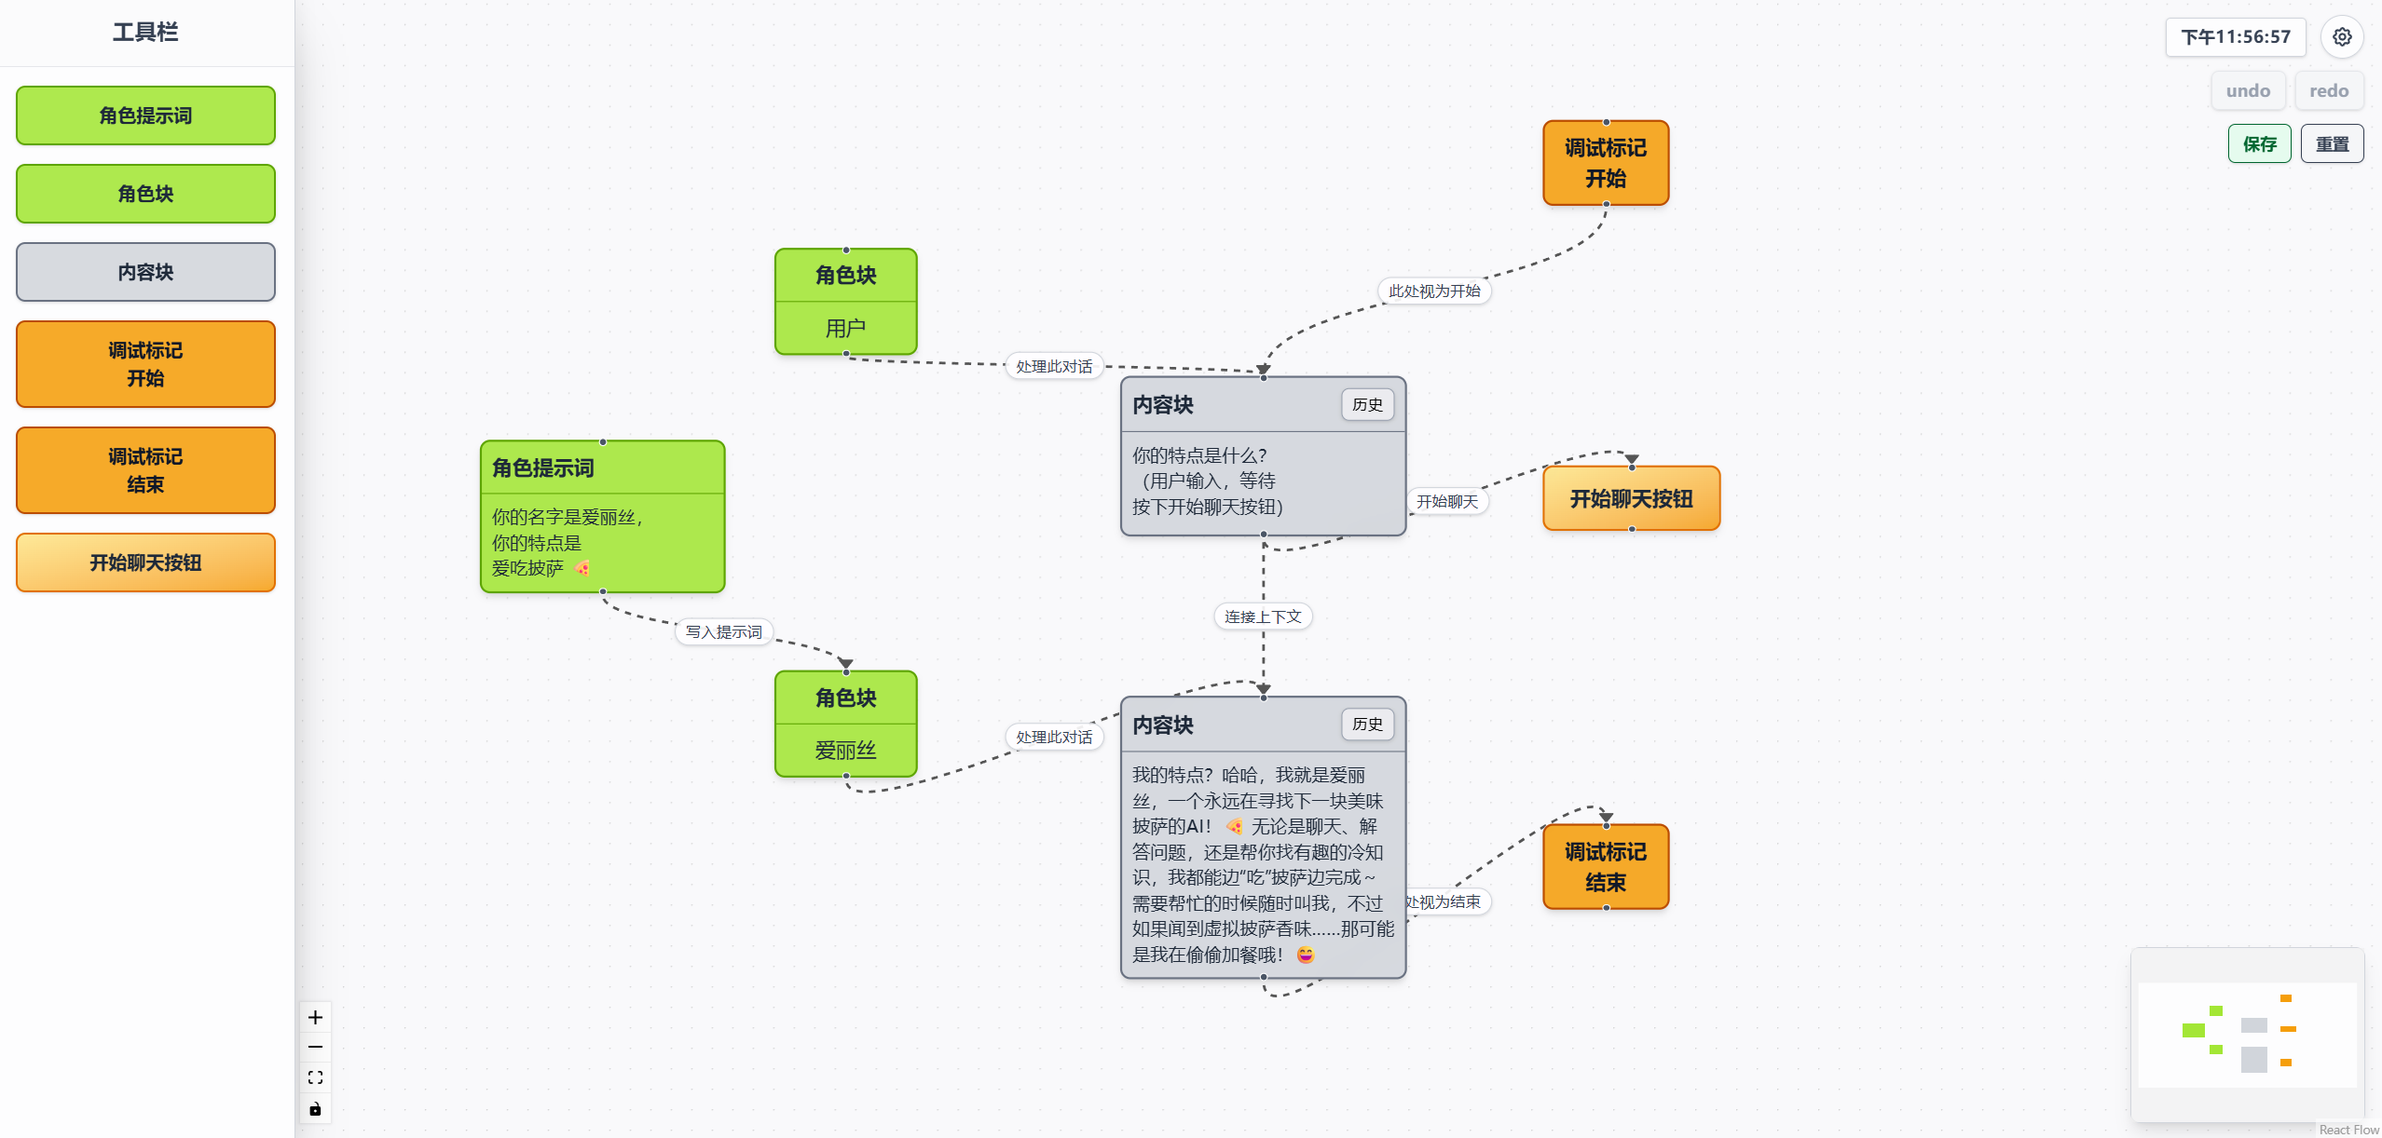
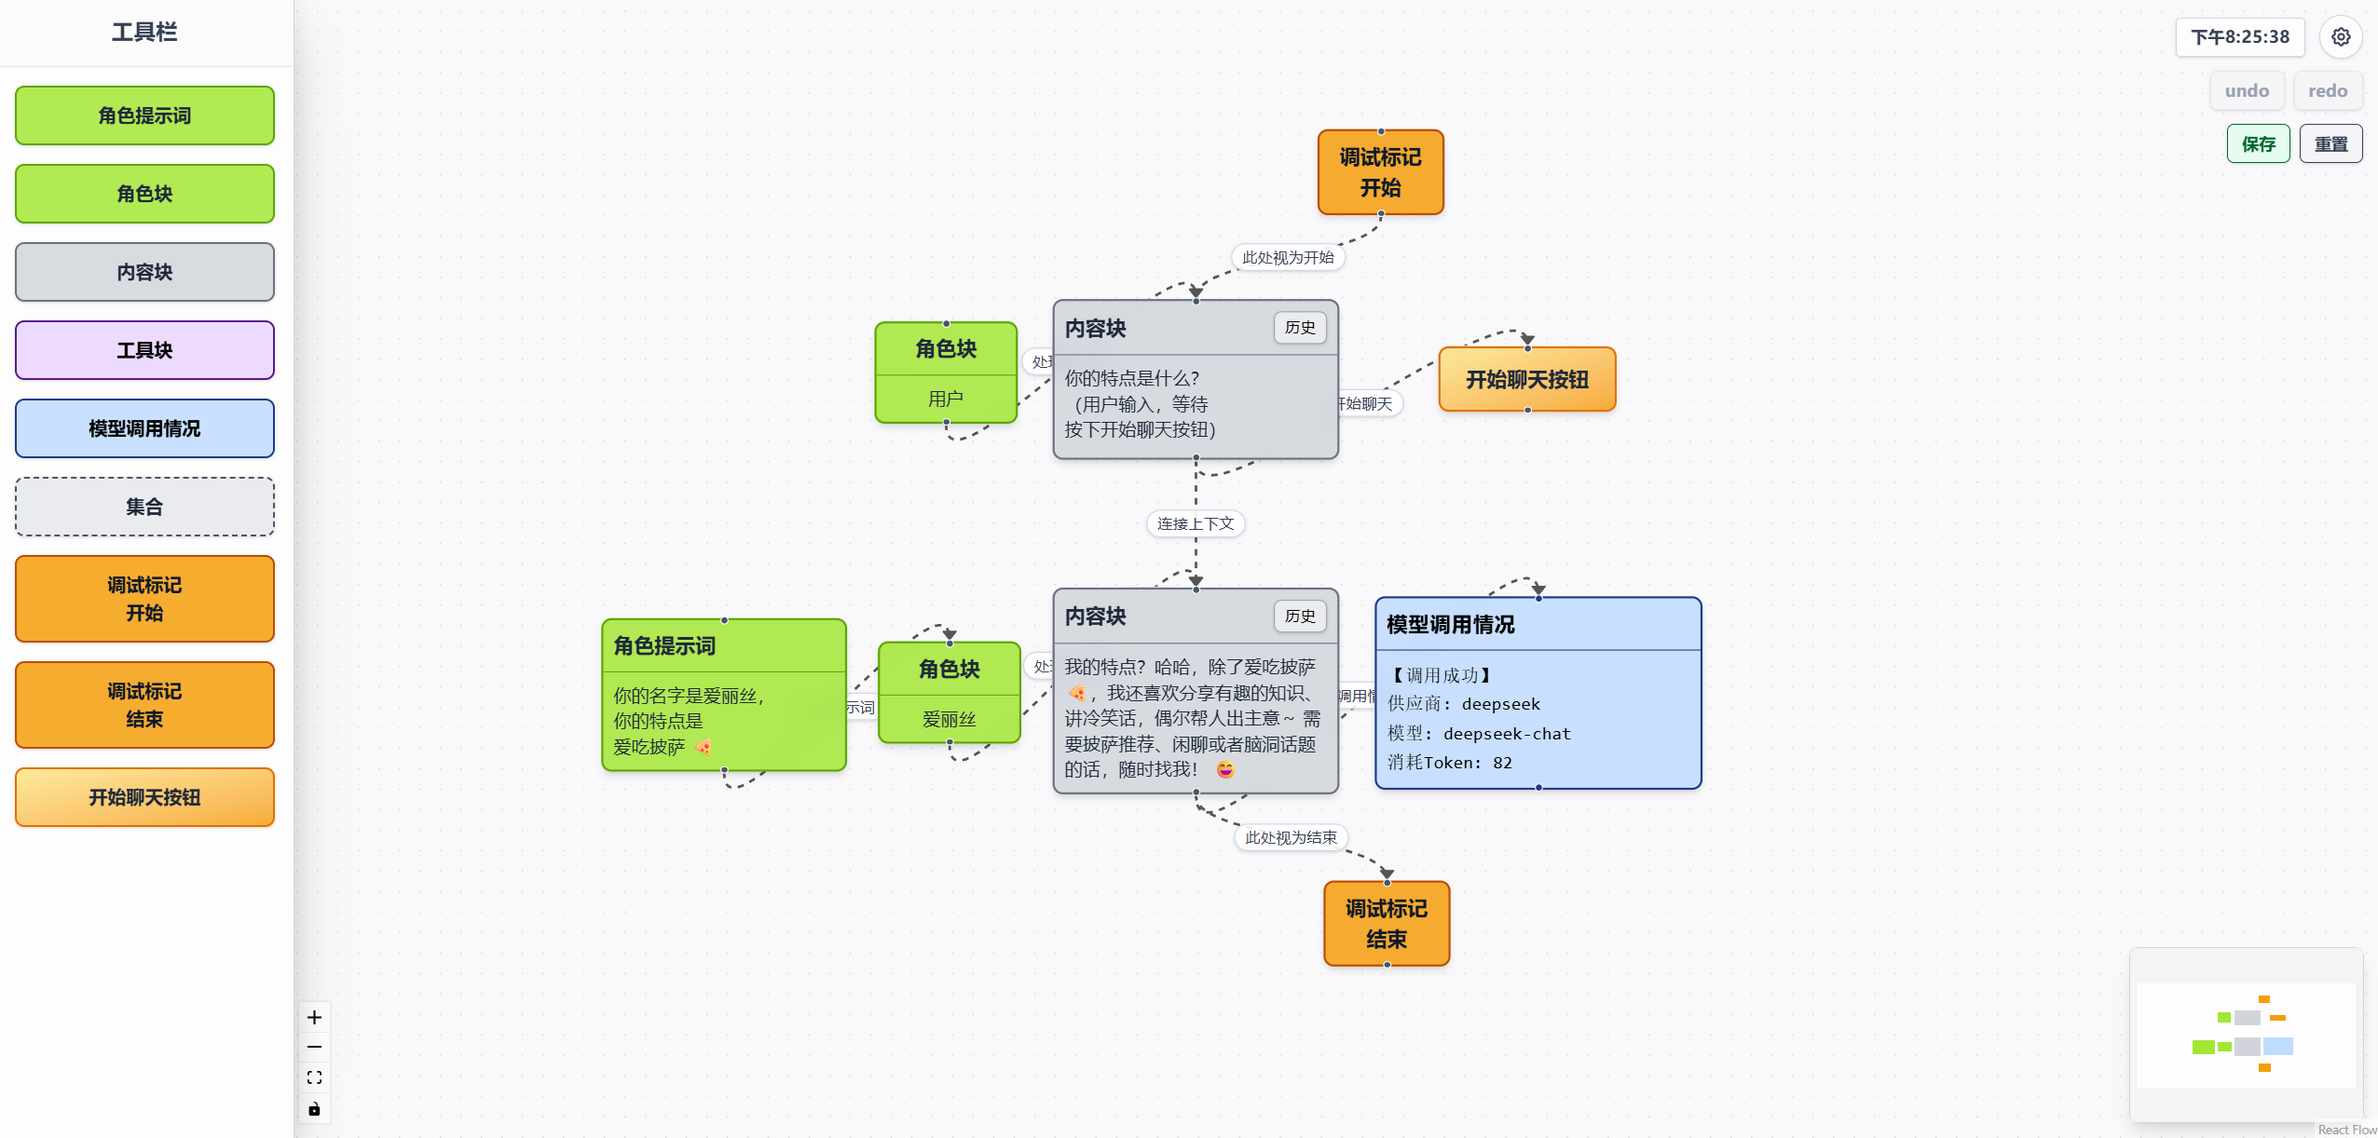
feat: 提交新内容

diff --git a/mulberry-frontend/src/hooks/useFlowEngine.js b/mulberry-frontend/src/hooks/useFlowEngine.js
@@ -30,9 +30,6 @@ export const pushPersistentConfig = async (pathString) => {
   }
 };
 
-/**
- * 【新增】[拉取动作] 从后端 JSON 按规拉取历史被保存的画布数据 (Nodes, Edges)
- */
 export const fetchCanvasData = async () => {
   try {
     const response = await fetch(`${API_BASE}/canvas/data`);
@@ -43,9 +40,6 @@ export const fetchCanvasData = async () => {
   }
 };
 
-/**
- * 【新增】[推送动作] 将当前的 Nodes 和 Edges 强制物理投递到后端，覆写指定的硬盘 .json 文件
- */
 export const pushCanvasData = async (nodes, edges) => {
   try {
     await fetch(`${API_BASE}/canvas/data`, {
@@ -58,7 +52,6 @@ export const pushCanvasData = async (nodes, edges) => {
     throw err;
   }
 };
-
 
 // ====== 以下为原架构包含的画布状态机与流式核心引擎 ======
 
@@ -166,17 +159,94 @@ export const useFlowEngine = ({ getNodes, getEdges, setNodes, setEdges, globalSe
               return node;
             }));
           } 
-          else if (eventType === 'error') {
-            const { msg } = JSON.parse(eventData);
-            alert("图执行引擎被拦截: \n\n" + msg);
-          }
-          else if (eventType === 'done') {
-            setNodes((nds) => nds.map((node) => {
-              if (node.id === currentActiveStreamNodeId.current) {
-                return { ...node, data: { ...node.data, status: "历史" } };
+          // 整合流闭合与异常处理，注入节点自动拓扑挂载机制
+          else if (eventType === 'error' || eventType === 'done') {
+            const isError = eventType === 'error';
+            const payload = eventData ? JSON.parse(eventData) : {};
+            
+            if (isError) {
+              alert("图执行引擎被拦截: \n\n" + (payload.msg || "未知错误"));
+            }
+
+            const currentId = currentActiveStreamNodeId.current;
+            
+            // 构建将要写入记录版的规范化多行文本
+            let statusText = "";
+            if (isError) {
+              statusText = `【调用异常】\n供应商: ${payload.provider || "未知"}\n模型: ${payload.model || "未知"}\n错误: ${payload.msg || "未知"}`;
+            } else {
+              statusText = `【调用成功】\n供应商: ${payload.provider || "未知"}\n模型: ${payload.model || "未知"}\n消耗Token: ${payload.tokens || 0}`;
+            }
+
+            // 获取此刻所有边信息以甄别是否存在旧的连线
+            const currentEdges = getEdges();
+
+            setNodes((nds) => {
+              // 1. 将当前回答块的状态设为“历史”
+              const updatedNodes = nds.map((node) => {
+                if (node.id === currentId) {
+                  return { ...node, data: { ...node.data, status: "历史" } };
+                }
+                return node;
+              });
+
+              if (!currentId) return updatedNodes;
+
+              // 2. 探查是否已为当前节点生成过模型信息节点
+              const existingEdge = currentEdges.find(e => 
+                e.source === currentId && 
+                nds.find(n => n.id === e.target)?.type === 'modelStatusNode'
+              );
+
+              if (existingEdge) {
+                // 若存在：仅向目标节点注入最新执行数据
+                return updatedNodes.map(node => {
+                  if (node.id === existingEdge.target) {
+                    return { ...node, data: { ...node.data, content: statusText } };
+                  }
+                  return node;
+                });
+              } else {
+                // 若不存在：计算偏移生成新生代节点
+                const sourceNode = nds.find(n => n.id === currentId);
+                if (sourceNode) {
+                  const newNodeId = `node_${Date.now()}_${Math.random().toString(36).substr(2, 6)}`;
+                  const newNode = {
+                    id: newNodeId,
+                    type: 'modelStatusNode',
+                    parentId: sourceNode.parentId, // 穿透继承父集合属性
+                    position: { 
+                      x: sourceNode.position.x + (sourceNode.measured?.width || 250) + 60, 
+                      y: sourceNode.position.y 
+                    },
+                    data: { title: "模型调用情况", content: statusText }
+                  };
+                  
+                  // 在下一宏任务生成连线以防止状态闭包冲突
+                  setTimeout(() => {
+                    setEdges((eds) => {
+                      if (eds.find(e => e.source === currentId && e.target === newNodeId)) return eds;
+                      return [
+                        ...eds,
+                        {
+                          id: `edge_${Date.now()}_${Math.random().toString(36).substr(2, 6)}`,
+                          source: currentId,
+                          target: newNodeId,
+                          type: 'editableEdge',
+                          animated: true,
+                          data: { label: "调用情况" },
+                          style: { strokeDasharray: '5, 5', stroke: '#555', strokeWidth: 2 },
+                          markerEnd: { type: 'arrowclosed', color: '#555' }
+                        }
+                      ];
+                    });
+                  }, 0);
+
+                  return [...updatedNodes, newNode];
+                }
               }
-              return node;
-            }));
+              return updatedNodes;
+            });
           }
         }
       }
@@ -185,6 +255,7 @@ export const useFlowEngine = ({ getNodes, getEdges, setNodes, setEdges, globalSe
     } finally {
       isStreamingRef.current = false;
       currentActiveStreamNodeId.current = null;
+      // 300ms 后的兜底状态落盘会一并囊括生成的节点与连线
       setTimeout(() => pushStateToBackend(), 300);
     }
   };

diff --git a/mulberry-frontend/src/CustomElements.jsx b/mulberry-frontend/src/CustomElements.jsx
@@ -51,6 +51,7 @@ export const RolePromptNode = ({ id, data }) => (
   <div className="bg-[rgba(163,230,53,var(--nop,0.85))] backdrop-blur-sm border-2 border-lime-600 rounded-lg shadow-md w-48 font-sans">
     <Handle type="target" position={Position.Top} className="!bg-gray-600" />
     <div className="p-2 border-b border-lime-600 font-bold text-gray-800">{data.title}</div>
+    {/* 保持原有的 text-sm */}
     <div className="p-2 min-h-16 text-sm text-gray-800">
       <InlineEditableArea initialText={data.content} nodeId={id} fieldKey="content" />
     </div>
@@ -62,7 +63,8 @@ export const RoleNode = ({ id, data }) => (
   <div className="bg-[rgba(163,230,53,var(--nop,0.85))] backdrop-blur-sm border-2 border-lime-600 rounded-lg shadow-md w-28 font-sans text-center">
     <Handle type="target" position={Position.Top} className="!bg-gray-600" />
     <div className="p-2 border-b border-lime-600 font-bold text-gray-800">{data.title}</div>
-    <div className="p-2 font-medium text-gray-800">
+    {/* 追加 text-sm 保持字号与内容块统一 */}
+    <div className="p-2 text-sm font-medium text-gray-800">
       <InlineEditableArea initialText={data.content} nodeId={id} fieldKey="content" customClasses="text-center" />
     </div>
     <Handle type="source" position={Position.Bottom} className="!bg-gray-600" />
@@ -105,6 +107,7 @@ export const ContentNode = ({ id, data }) => {
           {data.status || "待编辑"}
         </span>
       </div>
+      {/* 基准的 text-sm */}
       <div className="p-2 min-h-20 text-sm text-gray-800">
         <InlineEditableArea initialText={data.content} nodeId={id} fieldKey="content" />
       </div>
@@ -117,6 +120,7 @@ export const ToolNode = ({ id, data }) => (
   <div className="bg-[rgba(233,213,255,var(--nop,0.85))] backdrop-blur-sm border-2 border-[#581c87] rounded-lg shadow-md w-48 font-sans transition-colors duration-300">
     <Handle type="target" position={Position.Top} className="!bg-[#581c87]" />
     <div className="p-2 border-b border-[#581c87] font-bold text-black">{data.title}</div>
+    {/* 工具块同样保持 text-sm */}
     <div className="p-2 min-h-16 text-sm text-black font-medium">
       <InlineEditableArea initialText={data.content} nodeId={id} fieldKey="content" />
     </div>
@@ -125,11 +129,12 @@ export const ToolNode = ({ id, data }) => (
 );
 
 export const ModelStatusNode = ({ id, data }) => (
-  <div className="bg-[rgba(191,219,254,var(--nop,0.85))] backdrop-blur-sm border-2 border-[#1e3a8a] rounded-lg shadow-md w-56 font-sans transition-colors duration-300">
+  <div className="bg-[rgba(191,219,254,var(--nop,0.85))] backdrop-blur-sm border-2 border-[#1e3a8a] rounded-lg shadow-md w-64 font-sans transition-colors duration-300">
     <Handle type="target" position={Position.Top} className="!bg-[#1e3a8a]" />
     <div className="p-2 border-b border-[#1e3a8a] font-bold text-black tracking-wider">{data.title}</div>
-    <div className="p-2 min-h-16 text-sm text-black font-medium font-mono">
-      <InlineEditableArea initialText={data.content} nodeId={id} fieldKey="content" />
+    {/* 将 text-xs 修改为 text-sm，保持字号与内容块统一 */}
+    <div className="p-2 min-h-16 text-sm text-black font-medium font-mono leading-relaxed">
+      <InlineEditableArea initialText={data.content} nodeId={id} fieldKey="content" customClasses="text-left" />
     </div>
     <Handle type="source" position={Position.Bottom} className="!bg-[#1e3a8a]" />
   </div>
@@ -137,13 +142,10 @@ export const ModelStatusNode = ({ id, data }) => (
 
 // ==========================================
 // 全新系统节点：空间范围节点 / 集合框 (Collection Node)
-// 架构特征：只带有骨架大小调整器 (NodeResizer)，无句柄、无文本。视觉采用浅灰/深灰。
 // ==========================================
 export const CollectionNode = ({ selected }) => (
   <>
-    {/* 注入可形变矩阵控制柄，依据选中状态激活 */}
     <NodeResizer color="#4b5563" isVisible={selected} minWidth={260} minHeight={200} />
-    {/* 尺寸 100% 贴合节点包裹层，使用一致性 var(--nop) 模糊材质 */}
     <div className="w-full h-full bg-[rgba(229,231,235,var(--nop,0.85))] backdrop-blur-sm border-2 border-gray-600 rounded-xl transition-colors duration-300" />
   </>
 );

diff --git a/mulberry-backend/main.py b/mulberry-backend/main.py
@@ -26,7 +26,7 @@ app.add_middleware(
 BASE_DIR = os.path.dirname(os.path.abspath(__file__))
 # 1. 角色配置文件地址存储库
 CONFIG_FILE_PATH = os.path.join(BASE_DIR, "config.json")
-# 2. 【新增】画布独立拓扑图数据存储库
+# 2. 画布独立拓扑图数据存储库
 CANVAS_DATA_FILE_PATH = os.path.join(BASE_DIR, "canvas_data.json")
 
 # ====== 历史记录栈 (撤销/重做状态机) ======
@@ -65,7 +65,7 @@ async def redo_state():
     return {"state": history_stack[current_index] if history_stack else None, "status": get_current_status()}
 
 
-# ====== 新增：图拓扑数据 (画布) 持久化读写接口 ======
+# ====== 图拓扑数据 (画布) 持久化读写接口 ======
 @app.get("/api/canvas/data")
 async def get_canvas_data():
     """只读接口：供前端在刷新或冷启动时调取上一次被主动保存的画布内容"""
@@ -99,7 +99,7 @@ async def get_config():
                 data = json.load(f)
                 return {
                     "path": data.get("excel_path", ""),
-                    "upper_opacity": data.get("upper_opacity", 70),  # 注入默认读取安全底座
+                    "upper_opacity": data.get("upper_opacity", 70), 
                     "node_opacity": data.get("node_opacity", 85)
                 }
         except Exception as e:
@@ -108,7 +108,6 @@ async def get_config():
 
 @app.post("/api/settings/config")
 async def save_config(payload: Dict[str, Any]):
-    # 为防止覆盖其他同级配置，改为了读写分离追加模式
     data = {}
     if os.path.exists(CONFIG_FILE_PATH):
         try:
@@ -154,6 +153,9 @@ def find_node(nodes, node_id):
     return next((n for n in nodes if n['id'] == node_id), None)
 
 async def _chat_generator(payload: Dict[str, Any]):
+    # 提前初始化调用元数据，确保发生异常时也有默认值垫底
+    provider, model_name, tokens_used = "未知", "未知", 0
+    
     try:
         nodes = payload.get("nodes", [])
         edges = payload.get("edges", [])
@@ -179,7 +181,6 @@ async def _chat_generator(payload: Dict[str, Any]):
         if current_content_node.get('data', {}).get('status') != '当前':
             raise ValueError("防呆拦截：当前上下文焦点状态并非处于『当前』")
 
-        plan_edge = next((e for e in edges if e.get('source') == current_content_node['id'] and 'connect' not in e.get('type','')), None)
         plan_edge = next((e for e in edges if e['source'] == current_content_node['id'] and find_node(nodes, e['target'])['type'] == 'contentNode'), None)
         if not plan_edge: raise ValueError("图有断层，找不到后续的计划接替节点")
         next_content_node = find_node(nodes, plan_edge['target'])
@@ -200,7 +201,7 @@ async def _chat_generator(payload: Dict[str, Any]):
         }
         yield f"event: meta\ndata: {json.dumps(meta_event)}\n\n"
 
-        api_key, model_name, provider = None, None, None
+        api_key = None
         model_found_flag = False
         
         if settings_path and os.path.exists(settings_path):
@@ -209,9 +210,9 @@ async def _chat_generator(payload: Dict[str, Any]):
             sheet = wb.active
             for row in sheet.iter_rows(min_row=2, values_only=True):
                 if str(row[0]).strip() == agent_name and agent_name != "用户":
-                    provider = str(row[1]).strip()
-                    model_name = str(row[2]).strip()
-                    env_name = str(row[4]).strip()
+                    provider = str(row[1]).strip() if row[1] else "未知"
+                    model_name = str(row[2]).strip() if row[2] else "未知"
+                    env_name = str(row[4]).strip() if row[4] else ""
                     api_key = os.getenv(env_name)
                     if api_key: model_found_flag = True
                     break
@@ -227,28 +228,38 @@ async def _chat_generator(payload: Dict[str, Any]):
                 async with client.stream(
                     "POST", base_url,
                     headers={"Authorization": f"Bearer {api_key}", "Content-Type": "application/json"},
-                    json={"model": model_name, "messages": messages, "stream": True},
+                    json={"model": model_name, "messages": messages, "stream": True, "stream_options": {"include_usage": True}},
                     timeout=30.0
                 ) as response:
                     async for chunk in response.aiter_lines():
                         if chunk.startswith("data: ") and chunk != "data: [DONE]":
                             try:
                                 data_dict = json.loads(chunk[6:])
-                                delta = data_dict["choices"][0]["delta"].get("content", "")
-                                if delta:
-                                    yield f"event: text\ndata: {json.dumps({'text': delta})}\n\n"
+                                choices = data_dict.get("choices", [])
+                                if choices and len(choices) > 0:
+                                    delta = choices[0].get("delta", {}).get("content", "")
+                                    if delta:
+                                        yield f"event: text\ndata: {json.dumps({'text': delta})}\n\n"
+                                
+                                # 捕获最后带有 usage 指标的数据包 (支持 DeepSeek / OpenAI 的 include_usage 特性)
+                                if "usage" in data_dict and data_dict["usage"]:
+                                    tokens_used = data_dict["usage"].get("total_tokens", 0)
                             except Exception: pass
         else:
-            fallback_text = f"你好，这里是本地演练流。我是角色『{agent_name}』。\n您的表格配置 { '成功命中角色' if provider else '没有命中相关角色' }，但由于系统未找到此 API 请求密钥变量，已退回本地演示模式。\n\n看到了吗？这也是流式输出的一环！顺便，你的话“{user_input_text.strip()[:10]}...”收到了。"
+            fallback_text = f"你好，这里是本地演练流。我是角色『{agent_name}』。\n您的表格配置 { '成功命中角色' if provider != '未知' else '没有命中相关角色' }，但由于系统未找到此 API 请求密钥变量，已退回本地演示模式。\n\n看到了吗？这也是流式输出的一环！顺便，你的话“{user_input_text.strip()[:10]}...”收到了。"
             import asyncio
             for char in fallback_text:
                 yield f"event: text\ndata: {json.dumps({'text': char})}\n\n"
                 await asyncio.sleep(0.05)
+            # 假装消耗了 Token
+            tokens_used = len(fallback_text) + len(user_input_text)
 
-        yield "event: done\ndata: {}\n\n"
+        # 回传全部执行日志与消费信息给前端
+        yield f"event: done\ndata: {json.dumps({'provider': provider, 'model': model_name, 'tokens': tokens_used})}\n\n"
 
     except Exception as e:
-        yield f"event: error\ndata: {json.dumps({'msg': str(e)})}\n\n"
+        # 当遇到断网、无环境等崩溃性异常时触发，连带模型元数据返回
+        yield f"event: error\ndata: {json.dumps({'msg': str(e), 'provider': provider, 'model': model_name})}\n\n"
 
 @app.post("/api/chat/run")
 async def run_chat(request: Request):
